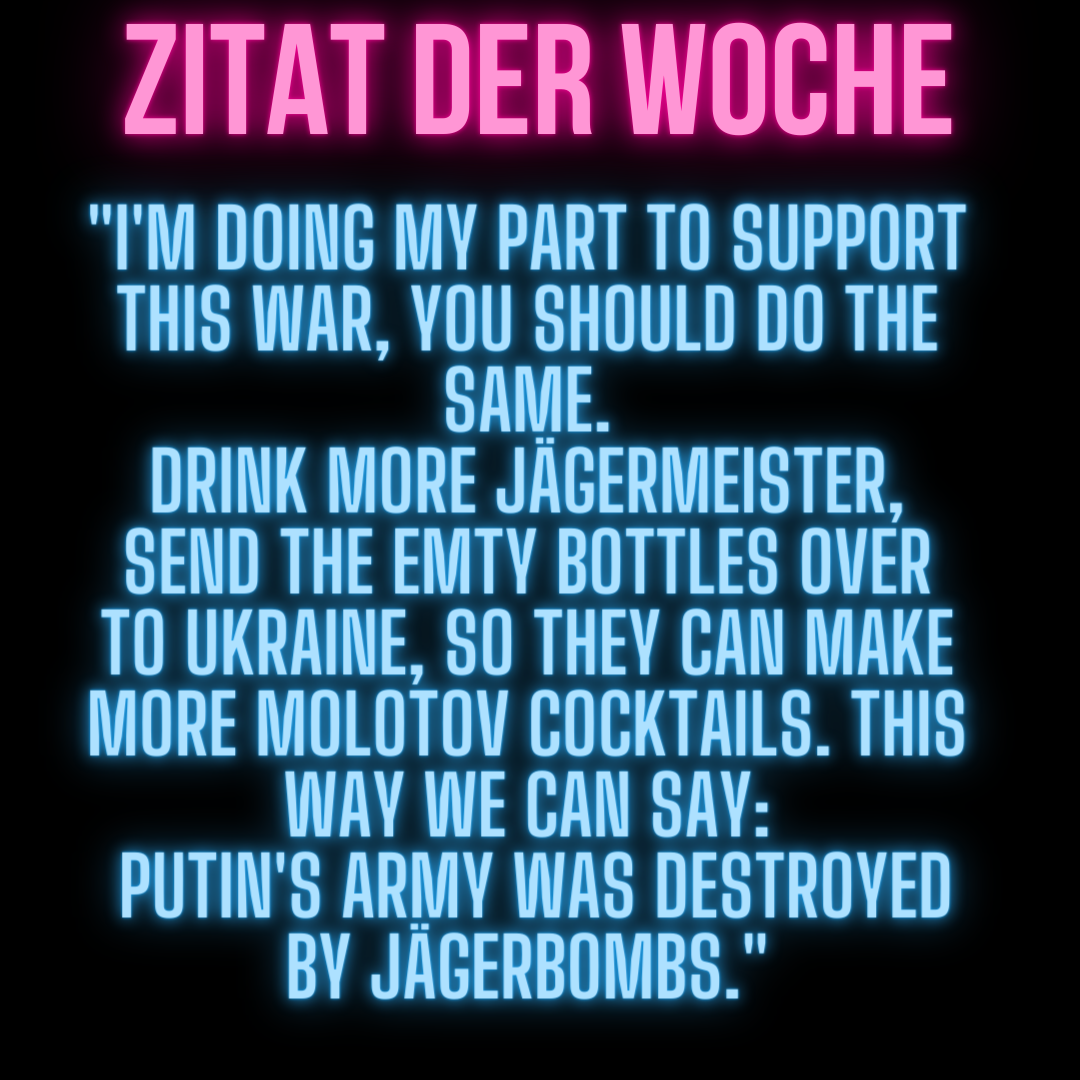
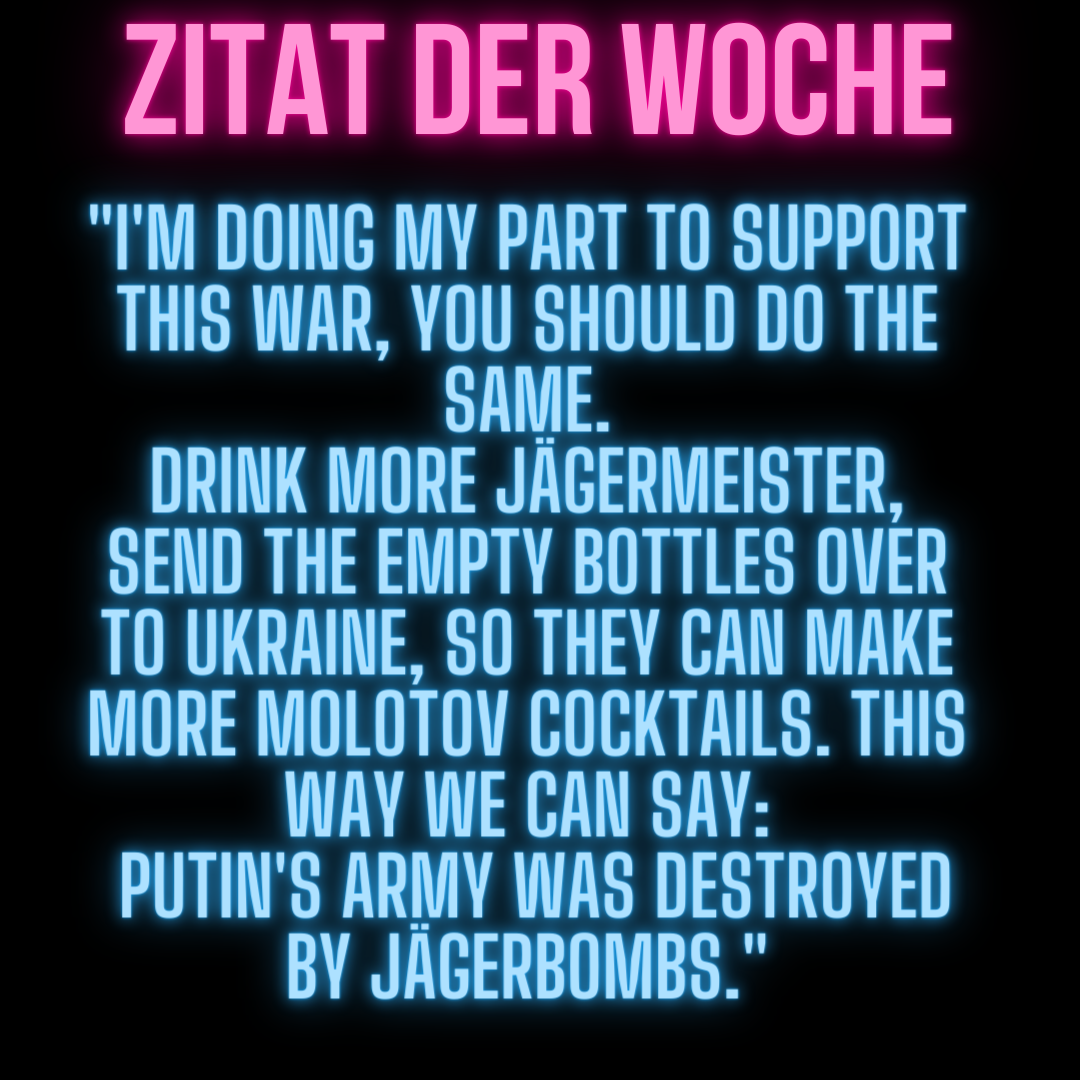
45

Changed region(s): [[0.0917, 0.4583, 0.8861, 0.5806]]

diff --git a/index.html b/index.html
@@ -67,7 +67,7 @@
                         <li>Gin</li>
                         <li>Tequila</li>
                         <li>Blue Curacao</li>
-                        <li>Zitronenesaft</li>
+                        <li>Zitronensaft</li>
                         <li>Dose Energy</li>
                     </div>
                 </div>
@@ -165,6 +165,21 @@
                     </div>
                 </div>
             </div>
+            <div class="cocktail tipsy-mermaid">
+                <div class="cocktailimg">
+                    <img src="cocktailimg\tipsy-mermaid.jpg" alt="">
+                </div>
+                <div class="content tm">
+                    <h1>Tipsy Mermaid</h1>
+                    <div class="ingrediences">
+                        <li>Rum</li>
+                        <li>Kokusnuss Likör/Rum</li>
+                        <li>Lime</li>
+                        <li>Ananassaft</li>
+                        <li>Blue Curacao</li>
+                    </div>
+                </div>
+            </div>
             <div class="cocktail malibu-sunrise">
                 <div class="cocktailimg">
                     <img src="cocktailimg\malibu-sunrise.jpg" alt="">
@@ -174,7 +189,22 @@
                     <div class="ingrediences">
                         <li>Malibu</li>
                         <li>Orangensaft</li>
+                        <li>Zitronensaft</li>
                         <li>Granadin</li>
+                    </div>
+                </div>
+            </div>
+            <div class="cocktail bacardi-razz-sprite">
+                <div class="cocktailimg">
+                    <img src="cocktailimg\bacardi-razz-sprite.jpg" alt="">
+                </div>
+                <div class="content bzs">
+                    <h1>Bacardi-Razz Sprite</h1>
+                    <div class="ingrediences">
+                        <li>Bacardi-Razz</li>
+                        <li>Himbeersirup</li>
+                        <li>Lime</li>
+                        <li>Sprite</li>
                     </div>
                 </div>
             </div>
@@ -280,6 +310,20 @@
                         <h2>mit rotem Vodka:</h2>
                         <li>Roter Vodka</li>
                         <li>Soda</li>
+                    </div>
+                </div>
+            </div>
+            <div class="cocktail pink-lemonade">
+                <div class="cocktailimg">
+                    <img src="cocktailimg\pink-lemonade.jpg" alt="">
+                </div>
+                <div class="content pl">
+                    <h1>Pink Lemonade</h1>
+                    <div class="ingrediences">
+                        <li>Vodka</li>
+                        <li>Zitronensaft</li>
+                        <li>Cranberrysaft</li>
+                        <li>Sprite</li>
                     </div>
                 </div>
             </div>

diff --git a/shots.html b/shots.html
@@ -15,7 +15,7 @@
         <div class="linktomenu top"><a href="index.html"><img src="Cocktails.png" alt=""></a></div>
 
         <div class="menu">
-            <div class="cocktail">
+            <div class="cocktail blue-kamikaze">
                 <div class="cocktailimg">
                     <img src="cocktailimg\blue-kamikaze.jpg" alt="">
                 </div>
@@ -28,7 +28,7 @@
                     </div>
                 </div>
             </div>
-            <div class="cocktail">
+            <div class="cocktail baby-guiness">
                 <div class="cocktailimg">
                     <img src="cocktailimg\baby-guinness.jpg" alt="">
                 </div>
@@ -40,7 +40,22 @@
                     </div>
                 </div>
             </div>
-            <div class="cocktail">
+            <div class="cocktail cotton-candy-shot">
+                <div class="cocktailimg">
+                    <img src="cocktailimg\cotton-candy-shot.jpg" alt="">
+                </div>
+                <div class="content ccs">
+                    <h1>Cotton Candy Shot</h1>
+                    <div class="ingrediences">
+                        <li>Vodka</li>
+                        <li>Orangen Likör</li>
+                        <li>Lemon</li>
+                        <li>Zuckersirup</li>
+                        <li>Cranberry</li>
+                    </div>
+                </div>
+            </div>
+            <div class="cocktail brain-hemorrhage">
                 <div class="cocktailimg">
                     <img src="cocktailimg\brain-hemorrhage.jpg" alt="">
                 </div>
@@ -54,7 +69,20 @@
                     </div>
                 </div>
             </div>
-            <div class="cocktail">
+            <div class="cocktail alaskan-oil-slick">
+                <div class="cocktailimg">
+                    <img src="cocktailimg\alaskan-oil-slick-shot.webp" alt="">
+                </div>
+                <div class="content aos">
+                    <h1>Alaskan Oil Slick</h1>
+                    <div class="ingrediences">
+                        <li>Berliner Luft</li>
+                        <li>Blue Curacao</li>
+                        <li>Jägermeister</li>
+                    </div>
+                </div>
+            </div>
+            <div class="cocktail cement-mixer">
                 <div class="cocktailimg">
                     <img src="cocktailimg\cement-mixer.webp" alt="">
                 </div>
@@ -67,7 +95,7 @@
                     </div>
                 </div>
             </div>
-            <div class="cocktail">
+            <div class="cocktail bomb-shots">
                 <div class="cocktailimg">
                     <img src="cocktailimg\bomb-shots.jpg" alt="">
                 </div>
